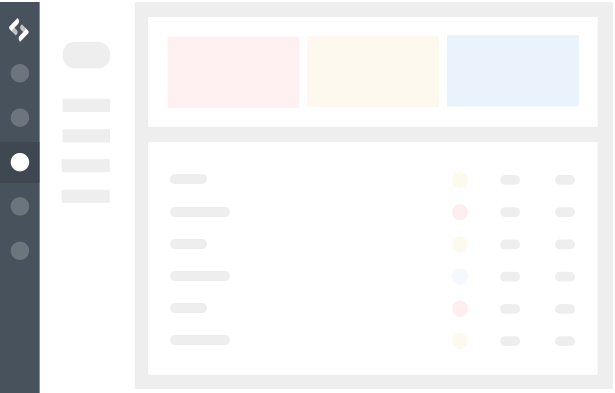
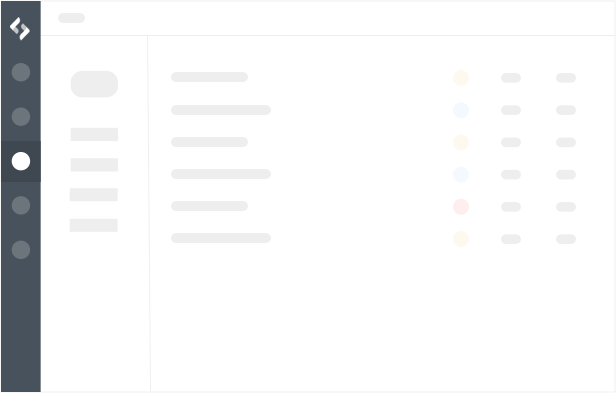
docs: adjust design docs #INFR-6804

diff --git a/docs/design/principle/usability.md b/docs/design/principle/usability.md
@@ -9,7 +9,7 @@ order: 10
 
 我们有时候不能不面对产品出错的时候。无论设计得多么用心，无论做了多少测试，用户仍然会遇到错误和问题。既然出错不可避免，那么如何进行容错性设计才是关键。即便你的产品90%的时间都运行良好。但是如果在用户需要帮助时置之不理，他们是不会忘记这一点的。——《getting real》
 
-PingCode 这款产品我们严格按照交互前可预知，交互中有反馈，交互后可撤销的原则充分给予用户良好的视觉和心理预期，在界面上面做到简洁易懂，使操易上手，例如我们首次进入 PingCode 时 我们为用户提供了新手引导以及快速开始的引导操作，减少用户学习成本。同时 PingCode 提供详细的说明文档和客户成功团队帮助用户快速了解和使用产品。
+Pingcode 这款产品我们严格按照交互前可预知，交互中有反馈，交互后可撤销的原则充分给予用户良好的视觉和心理预期，在界面上面做到简洁易懂，使操易上手，例如我们首次进入 Pingcode 时 我们为用户提供了新手引导以及快速开始的引导操作，减少用户学习成本。同时 Pingcode 提供详细的说明文档和客户成功团队帮助用户快速了解和使用产品。
 
 <br/>
 

diff --git a/docs/design/principle/light-weight.md b/docs/design/principle/light-weight.md
@@ -7,7 +7,9 @@ order: 20
 
 ## 配色干净
 
-PingCode 在颜色的选择上本着“低饱和度，高明度”的原则，使视觉感受整体趋于干净明亮，不再刻板沉重，情感层面也从严肃刻板变得轻松愉快，从而传达 PingCode 的工作态度，以此打造更加简单易用的新一代研发管理平台。例如项目主页我们最近浏览项目除了在位置上面做了优化以外，在视觉上面采用低饱和度彩色色块重点突出最近浏览的项目以抬高最近浏览项目的视觉层级，从而让用户获取效率更高效。
+Tethys Design 色板包含主题色、功能色、中性色。
+
+主题色是产品中产品中使用频率最高最核心的颜色，他主要用于按钮、强调信息、文字、高亮提醒、空状态等，主色我们选用了#6698ff，在视觉传达上更加干净、清晰，能够有效的传达品牌感。
 
 <br/>
 

diff --git a/docs/design/principle/friendly.md b/docs/design/principle/friendly.md
@@ -7,7 +7,6 @@ order: 30
 
 ## 即时反馈
 
-
 软件应该保持相同的模式，透过适当的反应，在合理的时间内通知使用者，让使用者了解正在发生的事情，并与用户建立可以预期的情感需求。
 
 例如“点赞”的操作，这是一个使用频度高和情感度高的操作，点赞的寓意实际就是赞赏、认可、欣赏等等正向的情感表达，设计师在设计点赞按钮时，重点强调点赞的过程，在用户点击点赞按钮后，图标变成红心，同时红心右上角出现“+1”的动效，强调因为你的点赞多了一票的操作，与用户建立正向的情感关联。
